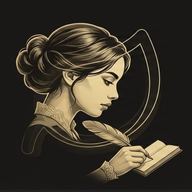
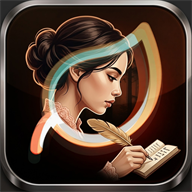
Neues App-Symbol: Frau mit Feder und Blatt
- Alle Symbolgrößen (32, 180, 192, 512) und favicon.ico neu erzeugt
- Manifest: purpose "any", damit Android den Rahmen nicht beschneidet
- Versionsanhang ?v=2 und neue Cache-Version, damit Browser die alten Symbole nicht weiterverwenden

diff --git a/index.html b/index.html
@@ -7,11 +7,11 @@
 <link href="https://fonts.googleapis.com/css2?family=Cormorant+Garamond:ital,wght@0,300;0,400;0,500;1,300&family=DM+Sans:wght@300;400;500&family=Comic+Neue:wght@400;700&display=swap" rel="stylesheet">
 <link rel="manifest" href="/manifest.json">
 <meta name="theme-color" content="#111010">
-<link rel="icon" type="image/x-icon" href="/favicon.ico">
+<link rel="icon" type="image/x-icon" href="/favicon.ico?v=2">
 <meta name="apple-mobile-web-app-capable" content="yes">
 <meta name="apple-mobile-web-app-status-bar-style" content="black-translucent">
 <meta name="apple-mobile-web-app-title" content="ZenOffice">
-<link rel="apple-touch-icon" href="/icon-192.png">
+<link rel="apple-touch-icon" href="/apple-touch-icon.png?v=2">
 <style>
 *{box-sizing:border-box;margin:0;padding:0}
 :root{

diff --git a/sw.js b/sw.js
@@ -1,5 +1,5 @@
 // ZenOffice Claude Edition – Service Worker
-const CACHE = 'zenoffice-claude-v1';
+const CACHE = 'zenoffice-claude-v2';
 
 self.addEventListener('install', e => {
   self.skipWaiting();
